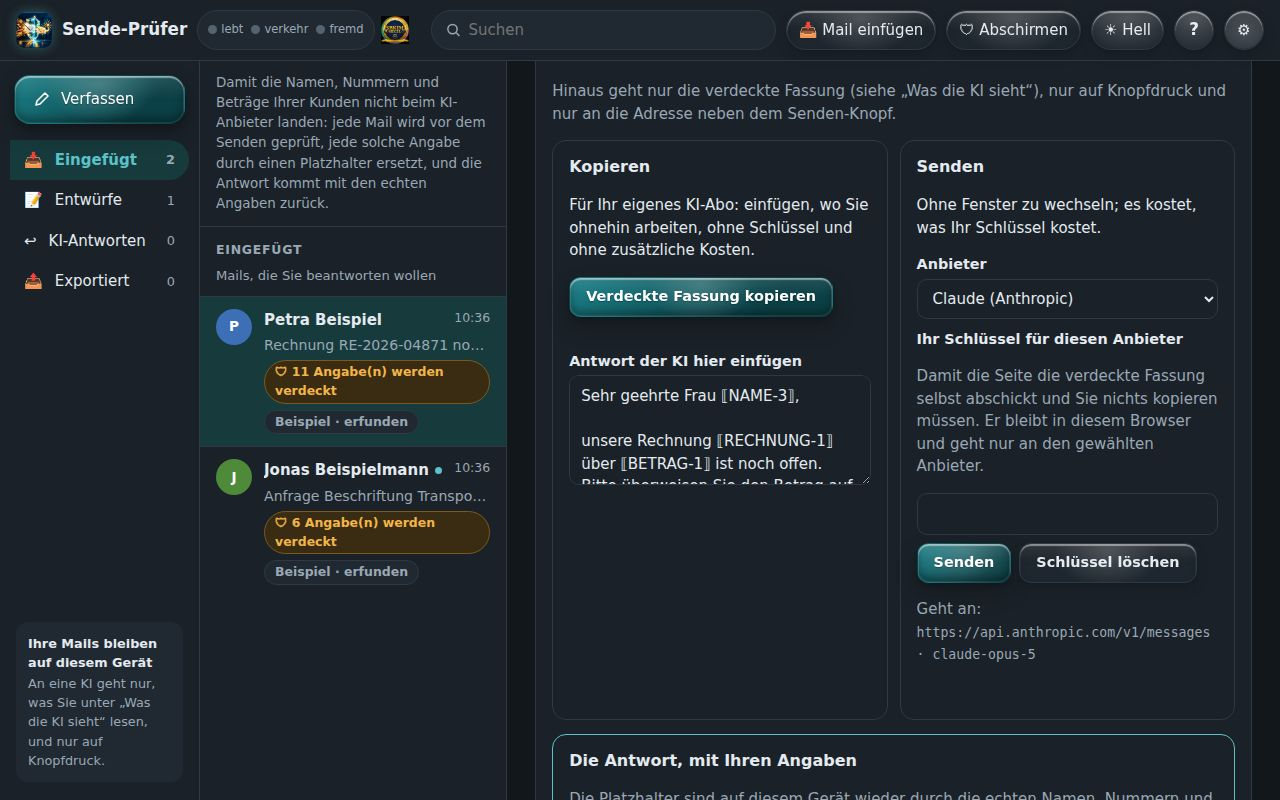
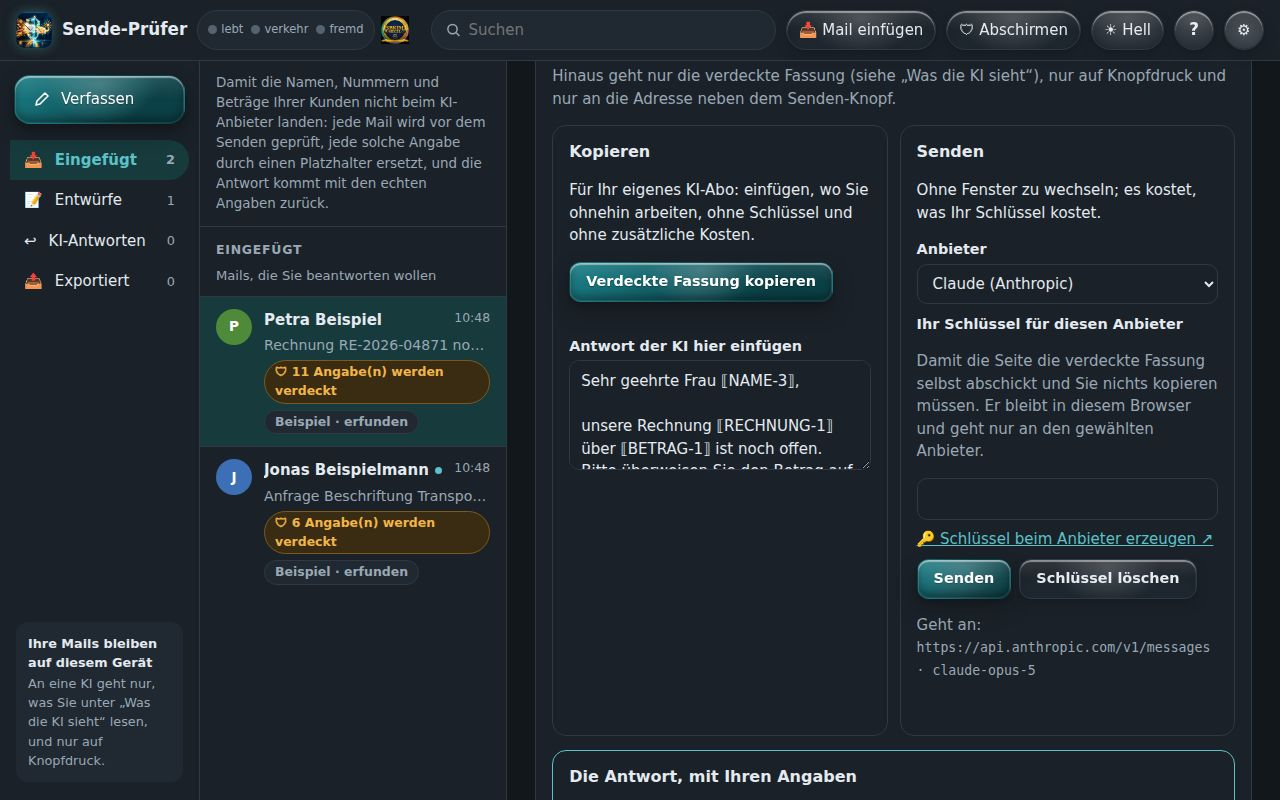
Link zur Schlüssel-Seite des Anbieters im Senden-Kasten
Unter dem Schlüsselfeld: „🔑 Schlüssel beim Anbieter erzeugen ↗“. Die
Adresse steht als `holen` in ANBIETER und wechselt mit dem Anbieter;
neuer Tab, noopener noreferrer. Vier Proben, vier Gegenprobe-Fälle
(HOL:), LIESMICH, Anleitung und Handbuch-Szene 7 neu gebaut, Cache v15.

Claude-Session: https://claude.ai/code/session_01KHFo7yvYQss46eJghCdK41

diff --git a/anleitung.html b/anleitung.html
@@ -111,7 +111,7 @@ td{padding:11px 14px;border-top:1px solid var(--linie);vertical-align:top}
 </section>
 <section class="teil" id="so-geht-es">
  <div class="kopfzeile"><span class="nr">02</span><h2>So geht es</h2></div>
- <ol class="schritte"><li><b>📥 Mail einfügen:</b> eine empfangene Mail samt Kopfzeilen (Von, An, Betreff) aus Ihrem Mail-Programm hineinkopieren oder eine gespeicherte <code>.eml</code> öffnen. Sie landet in <b>Eingefügt</b>. Oder <b>Verfassen</b> für einen eigenen Entwurf (Ordner <b>Entwürfe</b>).</li><li>Die Namen aus Von und An werden von selbst verdeckt. Weitere Personen- und Firmennamen tragen Sie unter <b>„Weitere Namen“</b> ein.</li><li><b>Original</b> zeigt die Mail mit jedem Fund markiert, <b>Was die KI sieht</b> zeigt genau den Text, der hinausgeht: Ihre Mail, darunter Ihre Bitte, jede Angabe als Platzhalter.</li><li><b>✦ Mit KI beantworten</b> (bzw. überarbeiten). Unter <b>„Was soll die KI tun?“</b> eine Aufgabe antippen (Antwort, Rechnung, Mahnung, Angebot …) oder selbst eintragen und <b>Anweisung bauen</b>; daraus entsteht die ganze Anweisung, frei änderbar. <b>Als Knopf merken</b> legt eine eigene Aufgabe als Knopf an. Dann einen der beiden Wege wählen:<ul><li><b>Kopieren</b>, für Ihr eigenes KI-Abo: einfügen, wo Sie ohnehin arbeiten, ohne Schlüssel und ohne zusätzliche Kosten. Die Antwort fügen Sie danach in das Feld darunter ein.</li><li><b>Senden</b>, ohne Fenster zu wechseln. Sie wählen den Anbieter und tragen Ihren Schlüssel ein. Es kostet, was Ihr Schlüssel kostet.</li></ul></li><li>Die Antwort steht mit Ihren echten Angaben da. <b>In KI-Antworten ablegen</b>, <b>⤓ Als .eml speichern</b> oder <b>📤 Teilen</b>: die <code>.eml</code> öffnet Ihr Mail-Programm als Entwurf; Teilen gibt Betreff und Text an ein Programm Ihrer Wahl (den Empfänger tragen Sie dort ein). Gespeicherte und geteilte Mails liegen danach in <b>Exportiert</b>.</li></ol>
+ <ol class="schritte"><li><b>📥 Mail einfügen:</b> eine empfangene Mail samt Kopfzeilen (Von, An, Betreff) aus Ihrem Mail-Programm hineinkopieren oder eine gespeicherte <code>.eml</code> öffnen. Sie landet in <b>Eingefügt</b>. Oder <b>Verfassen</b> für einen eigenen Entwurf (Ordner <b>Entwürfe</b>).</li><li>Die Namen aus Von und An werden von selbst verdeckt. Weitere Personen- und Firmennamen tragen Sie unter <b>„Weitere Namen“</b> ein.</li><li><b>Original</b> zeigt die Mail mit jedem Fund markiert, <b>Was die KI sieht</b> zeigt genau den Text, der hinausgeht: Ihre Mail, darunter Ihre Bitte, jede Angabe als Platzhalter.</li><li><b>✦ Mit KI beantworten</b> (bzw. überarbeiten). Unter <b>„Was soll die KI tun?“</b> eine Aufgabe antippen (Antwort, Rechnung, Mahnung, Angebot …) oder selbst eintragen und <b>Anweisung bauen</b>; daraus entsteht die ganze Anweisung, frei änderbar. <b>Als Knopf merken</b> legt eine eigene Aufgabe als Knopf an. Dann einen der beiden Wege wählen:<ul><li><b>Kopieren</b>, für Ihr eigenes KI-Abo: einfügen, wo Sie ohnehin arbeiten, ohne Schlüssel und ohne zusätzliche Kosten. Die Antwort fügen Sie danach in das Feld darunter ein.</li><li><b>Senden</b>, ohne Fenster zu wechseln. Sie wählen den Anbieter und tragen Ihren Schlüssel ein; einen Schlüssel erzeugen Sie über den Link „🔑 Schlüssel beim Anbieter erzeugen“. Es kostet, was Ihr Schlüssel kostet.</li></ul></li><li>Die Antwort steht mit Ihren echten Angaben da. <b>In KI-Antworten ablegen</b>, <b>⤓ Als .eml speichern</b> oder <b>📤 Teilen</b>: die <code>.eml</code> öffnet Ihr Mail-Programm als Entwurf; Teilen gibt Betreff und Text an ein Programm Ihrer Wahl (den Empfänger tragen Sie dort ein). Gespeicherte und geteilte Mails liegen danach in <b>Exportiert</b>.</li></ol>
  <p>Unter <b>⚙</b> stehen die Beispiel-Mail und der Selbsttest. Oben schaltet <b>☀ Hell</b> bzw. <b>🌙 Dunkel</b> das Thema um; die Wahl bleibt gemerkt.</p>
  <p><b>🛡 Abschirmen</b> hält Schreib-Helfer (Grammarly, LanguageTool) und die KI-Schreibhilfe des Browsers von den Schreibfeldern fern: Rechtschreibprüfung, Autokorrektur und Schreibvorschläge gehen aus, auch in Feldern, die später aufgehen. Ein zweiter Tipp stellt alles wieder her. Hängt etwas Fremdes Elemente oder Marken in die Seite, erscheint oben ein roter Hinweis, und die Lampe <b>fremd</b> leuchtet.</p>
  <p>Oben neben dem Namen steht die <b>Netz-Leiste</b>: drei Lampen (<b>lebt</b> · <b>verkehr</b> · <b>fremd</b>), das <b>Siegel</b> und die <b>Mycel-Blase</b>. Am Handy stehen dort nur die drei Punkte; ein Tipp klappt Namen, Siegel und Blase auf. Der Sende-Prüfer ist damit ein eigener Knoten im SBKIM-Netz. Mit dem Netz verbindet er sich nur, wenn Sie in der Mycel-Blase darauf tippen.</p>

diff --git a/sende-pruefer.html b/sende-pruefer.html
@@ -304,9 +304,11 @@ dialog h2{margin:0 0 8px;font-size:1.1rem}
    Anbieter ergänzt, trägt ihn HIER ein, mit Beleg. */
 const ANBIETER = Object.freeze({
   anthropic: Object.freeze({ name: "Claude (Anthropic)", adresse: "https://api.anthropic.com/v1/messages",
-    modell: "claude-opus-5", beginnt: "sk-ant-", protokoll: "messages" }),
+    modell: "claude-opus-5", beginnt: "sk-ant-", protokoll: "messages",
+    holen: "https://console.anthropic.com/settings/keys" }),
   mistral: Object.freeze({ name: "Mistral (EU)", adresse: "https://api.mistral.ai/v1/chat/completions",
-    modell: "mistral-large-latest", beginnt: null, protokoll: "openai" })
+    modell: "mistral-large-latest", beginnt: null, protokoll: "openai",
+    holen: "https://console.mistral.ai/api-keys" })
 });
 const SCHLUESSEL_PREFIX = "sendepruefer_key_";
 const THEMA_KEY = "sendepruefer_thema";
@@ -742,6 +744,7 @@ function kiKasten(m) {
         el("label", { for: "schluessel" }, "Ihr Schlüssel für diesen Anbieter"),
         el("p", { class: "gedaempft", "data-schluessel-zweck": true }, "Damit die Seite die verdeckte Fassung selbst abschickt und Sie nichts kopieren müssen. Er bleibt in diesem Browser und geht nur an den gewählten Anbieter."),
         schl,
+        el("a", { id: "schluessel-holen", target: "_blank", rel: "noopener noreferrer", style: "display:inline-block;margin-top:8px" }, "🔑 Schlüssel beim Anbieter erzeugen\u00a0↗"),
         el("div", { class: "werkzeug", style: "margin:8px 0 0" },
           el("button", { class: "knopf haupt", id: "senden", type: "button", onclick: () => senden(m) }, "Senden"),
           el("button", { class: "knopf", id: "schluessel-weg", type: "button", onclick: schluesselLoeschen }, "Schlüssel löschen")),
@@ -825,6 +828,7 @@ function anbieterZeigen() {
   if (!$("anbieter")) return;
   const a = anbieterJetzt();
   $("ziel-adresse").textContent = a.adresse + " · " + a.modell;
+  $("schluessel-holen").href = a.holen;
   $("schluessel").value = lies(schluesselName());
   $("sende-meldung").textContent = "";
 }

diff --git a/handbuch.html b/handbuch.html
@@ -195,7 +195,7 @@ html.bewegt .szene.da{opacity:1;transform:none}
  <div class="kopfzeile"><span class="nr">07</span><h2>Zwei Wege hinaus</h2></div>
  <figure class="bild">
   <img src="handbuch/07-wege.jpg" width="1280" height="800" alt="Zwei Wege hinaus — Bildschirmfoto der App" loading="lazy" decoding="async">
-  <span class="ring" data-ring style="left:43.1%;top:17.5%;width:53.3%;height:72.5%"></span>
+  <span class="ring" data-ring style="left:43.1%;top:15.6%;width:53.3%;height:76.3%"></span>
  </figure>
  <p class="text"><b>Kopieren</b> für Ihr eigenes KI-Abo: in ChatGPT, Claude oder Le Chat einfügen, ohne Schlüssel und ohne zusätzliche Kosten. <b>Senden</b> geht direkt an Anthropic oder Mistral, mit Ihrem eigenen Schlüssel — es kostet, was Ihr Schlüssel kostet. Beide Wege sind gleichrangig; hinaus geht nur der verdeckte Text, und nur auf Knopfdruck.</p>
  <p class="sprech" data-sprech><span class="mikro" aria-hidden="true">🎙</span> Zwei Wege, beide gleichwertig: kopieren für Ihr eigenes KI-Abo, oder direkt senden mit Ihrem Schlüssel. Hinaus geht nur der geschützte Text, und nur, wenn Sie tippen.</p>

diff --git a/sw.js b/sw.js
@@ -1,7 +1,7 @@
 /* Offline-Vorrat des Sende-Prüfers. Wer eine Datei aus CORE ändert, erhöht
    CACHE_VERSION — sonst liefert der Worker die alte Fassung weiter.
    Anfragen an fremde Adressen (die KI-Anbieter) fasst er NICHT an. */
-const CACHE_VERSION = "sende-pruefer-v14";
+const CACHE_VERSION = "sende-pruefer-v15";
 const CORE = ["./", "index.html", "sende-pruefer.html", "handbuch.html", "anleitung.html", "koeder.txt", "LIESMICH.md", "manifest.json", "icons/favicon-32.png", "icons/marke-72.png", "icons/sende-pruefer-bild.webp", "modules/25_pseudonym.js", "assets/abschirmung.js", "assets/sbkim-init.js", "assets/siegel-inhalt.js"];
 self.addEventListener("install", (e) => {
   e.waitUntil(caches.open(CACHE_VERSION).then((c) =>

diff --git a/CLAUDE.md b/CLAUDE.md
@@ -146,6 +146,16 @@ Die Tabelle wird am Handy zu Karten; gemessen wird die Tabelle selbst, nicht ihr
 (`overflow:hidden` hätte eine zu breite Tabelle still abgeschnitten — so war ein
 Gegenprobe-Fall zuerst blind). Wer LIESMICH.md ändert, baut neu, sonst wird die Probe rot.
 
+## Schlüssel beim Anbieter erzeugen (seit 2026-09-29)
+
+Klaus: *„Mir fehlt noch die Schlüsselgenerierung für KI … der Link direkt zum Anbieter.“*
+Unter dem Schlüsselfeld steht „🔑 Schlüssel beim Anbieter erzeugen ↗“. Die Adresse
+steht als `holen` in `ANBIETER` (Anthropic `console.anthropic.com/settings/keys`,
+Mistral `console.mistral.ai/api-keys` — dieselben Adressen wie in den übrigen Apps
+des Netzes) und wechselt mit dem Anbieter. Neuer Tab, `noopener noreferrer`. Keine
+Zahl zu Startguthaben. Ob die Seiten beim Anbieter heute so heißen, ist aus dem
+Behälter nicht gemessen.
+
 ## Prüfen
 
 ```bash
@@ -155,7 +165,7 @@ npm run gegenprobe  # 96 eingebaute Fehler, jeder muss seine rote Zeile werfen
 NUR_ANKER=1 bash tests/gegenprobe.sh   # nur die Anker, in Sekunden
 ```
 
-Zuletzt gemessen (2026-09-29, Tempo, Bodenschein, Wackeln): **240 grün · 0 ROT** · `NUR_ANKER` **96 · 0 tot** · die 13 Lichtschein-/Icon-Fälle **13 gefangen · 0 blind · 0 aus falschem Grund**. Davor (2026-09-29, Klaus' Lichtweg): **234 grün · 0 ROT** · `NUR_ANKER` **89 · 0 tot** · die sechs Lichtkegel-Fälle **6 gefangen · 0 blind · 0 aus falschem Grund** (ein Anker traf erst zweimal — `0%{scale:4` steht auch in `100%{scale:4` —, gemeldet und eindeutig gemacht). Davor (2026-09-29, weißer Saum entfernt): **229 grün · 0 ROT**. Davor (2026-09-29, Knoten + Abschirmung + Handbuch + Icons): **222 grün · 0 ROT** · Gegenprobe: erster voller Lauf über die Knoten-Fälle **68 gefangen · 2 blind · 2 aus falschem Grund** — alle vier in der Probe (überflüssiges Nachholen, Höhen-Prüfung übersah Teile unter 30 px, Lade-Prüfung zu früh, ein Stolpern nahm die Leisten-Prüfungen mit); danach diese vier und die 13 neuen `HB:`-Fälle einzeln gefahren: **17 gefangen · 0 blind · 0 aus falschem Grund**, `NUR_ANKER` **85 · 0 tot**. Ein voller Lauf über alle 85 danach ist **nicht** gefahren. Davor (2026-09-29, volle Lesebreite, Teilen als Text, Namen mit Komma): **106 grün · 0 ROT** · Gegenprobe **46 gefangen · 0 blind · 0 aus falschem Grund · 0 tote Anker**. Davor (2026-09-28, Vollbild + Themen-Knopf + Glas-Knöpfe): **102 grün · 0 ROT** · Gegenprobe **44 gefangen · 0 blind · 0 aus falschem Grund · 0 tote Anker** (ein Anker zeigte nach dem Umbau des Themen-Knopfs ins Leere, von `NUR_ANKER` gemeldet und nachgezogen). Davor (2026-09-28, Postfach): **95 grün · 0 ROT** · Gegenprobe **39
+Zuletzt gemessen (2026-09-29, Schlüssel-Link): **267 grün · 0 ROT** · `NUR_ANKER` **114 · 0 tot** · die vier `HOL:`-Fälle **4 gefangen · 0 blind · 0 aus falschem Grund**. Davor (2026-09-29, Tempo, Bodenschein, Wackeln): **240 grün · 0 ROT** · `NUR_ANKER` **96 · 0 tot** · die 13 Lichtschein-/Icon-Fälle **13 gefangen · 0 blind · 0 aus falschem Grund**. Davor (2026-09-29, Klaus' Lichtweg): **234 grün · 0 ROT** · `NUR_ANKER` **89 · 0 tot** · die sechs Lichtkegel-Fälle **6 gefangen · 0 blind · 0 aus falschem Grund** (ein Anker traf erst zweimal — `0%{scale:4` steht auch in `100%{scale:4` —, gemeldet und eindeutig gemacht). Davor (2026-09-29, weißer Saum entfernt): **229 grün · 0 ROT**. Davor (2026-09-29, Knoten + Abschirmung + Handbuch + Icons): **222 grün · 0 ROT** · Gegenprobe: erster voller Lauf über die Knoten-Fälle **68 gefangen · 2 blind · 2 aus falschem Grund** — alle vier in der Probe (überflüssiges Nachholen, Höhen-Prüfung übersah Teile unter 30 px, Lade-Prüfung zu früh, ein Stolpern nahm die Leisten-Prüfungen mit); danach diese vier und die 13 neuen `HB:`-Fälle einzeln gefahren: **17 gefangen · 0 blind · 0 aus falschem Grund**, `NUR_ANKER` **85 · 0 tot**. Ein voller Lauf über alle 85 danach ist **nicht** gefahren. Davor (2026-09-29, volle Lesebreite, Teilen als Text, Namen mit Komma): **106 grün · 0 ROT** · Gegenprobe **46 gefangen · 0 blind · 0 aus falschem Grund · 0 tote Anker**. Davor (2026-09-28, Vollbild + Themen-Knopf + Glas-Knöpfe): **102 grün · 0 ROT** · Gegenprobe **44 gefangen · 0 blind · 0 aus falschem Grund · 0 tote Anker** (ein Anker zeigte nach dem Umbau des Themen-Knopfs ins Leere, von `NUR_ANKER` gemeldet und nachgezogen). Davor (2026-09-28, Postfach): **95 grün · 0 ROT** · Gegenprobe **39
 gefangen · 0 blind · 0 aus falschem Grund · 0 tote Anker**, erster Lauf. Davor
 (2026-09-28, mit Beispiel-E-Mail): **68 grün · 0 ROT** · Gegenprobe
 **26 gefangen · 0 blind · 0 aus falschem Grund · 0 tote Anker**. Davor

diff --git a/LIESMICH.md b/LIESMICH.md
@@ -15,7 +15,7 @@ Der Sende-Prüfer ist ein kleines Postfach, das dafür sorgt, dass die Namen, Nu
 3. **Original** zeigt die Mail mit jedem Fund markiert, **Was die KI sieht** zeigt genau den Text, der hinausgeht: Ihre Mail, darunter Ihre Bitte, jede Angabe als Platzhalter.
 4. **✦ Mit KI beantworten** (bzw. überarbeiten). Unter **„Was soll die KI tun?“** eine Aufgabe antippen (Antwort, Rechnung, Mahnung, Angebot …) oder selbst eintragen und **Anweisung bauen**; daraus entsteht die ganze Anweisung, frei änderbar. **Als Knopf merken** legt eine eigene Aufgabe als Knopf an. Dann einen der beiden Wege wählen:
    - **Kopieren**, für Ihr eigenes KI-Abo: einfügen, wo Sie ohnehin arbeiten, ohne Schlüssel und ohne zusätzliche Kosten. Die Antwort fügen Sie danach in das Feld darunter ein.
-   - **Senden**, ohne Fenster zu wechseln. Sie wählen den Anbieter und tragen Ihren Schlüssel ein. Es kostet, was Ihr Schlüssel kostet.
+   - **Senden**, ohne Fenster zu wechseln. Sie wählen den Anbieter und tragen Ihren Schlüssel ein; einen Schlüssel erzeugen Sie über den Link „🔑 Schlüssel beim Anbieter erzeugen“. Es kostet, was Ihr Schlüssel kostet.
 5. Die Antwort steht mit Ihren echten Angaben da. **In KI-Antworten ablegen**, **⤓ Als .eml speichern** oder **📤 Teilen**: die `.eml` öffnet Ihr Mail-Programm als Entwurf; Teilen gibt Betreff und Text an ein Programm Ihrer Wahl (den Empfänger tragen Sie dort ein). Gespeicherte und geteilte Mails liegen danach in **Exportiert**.
 
 Unter **⚙** stehen die Beispiel-Mail und der Selbsttest. Oben schaltet **☀ Hell** bzw. **🌙 Dunkel** das Thema um; die Wahl bleibt gemerkt.
